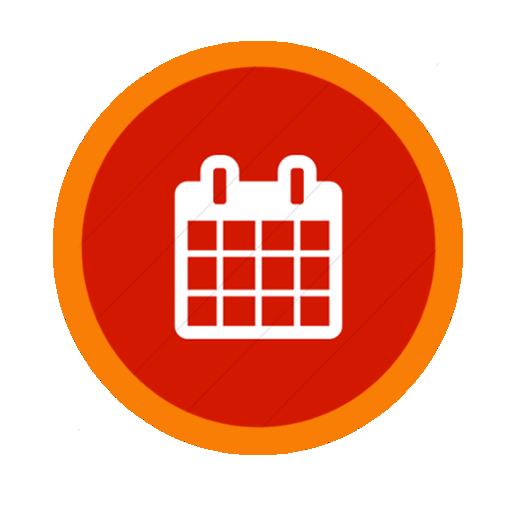
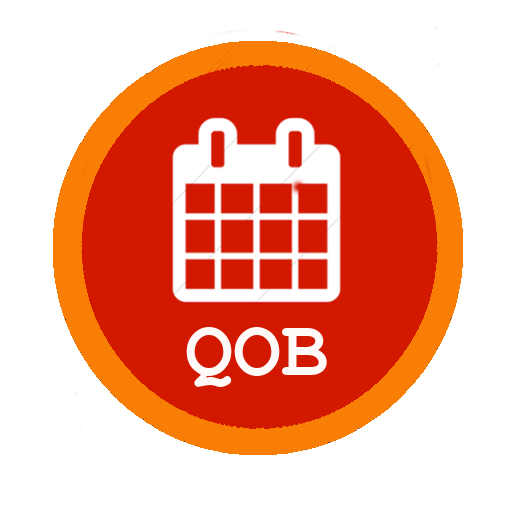
readyyy

diff --git a/components/screens/Menu.js b/components/screens/Menu.js
@@ -37,7 +37,7 @@ const Menu = ({ navigation, dataLogin, getOrder, loading, onShowModal }) => (
                 >
                     <Image source={iconBooking} style={styles.img}/>
                     <View style={styles.subtitle}>
-                        <Text style={styles.titleText}>QOB</Text>
+                        <Text style={styles.titleText}>Quick Online Booking</Text>
                     </View>
                 </TouchableOpacity>
                 <TouchableOpacity 

diff --git a/components/screens/search/IndexSearch.js b/components/screens/search/IndexSearch.js
@@ -160,7 +160,7 @@ class IndexSearch extends React.Component{
 				<MyStatusBar />
 				<TopNavigation
 				    leftControl={this.renderLeftControl()}
-				    title='QOB'
+				    title='QPOSin AJA'
 				    alignment='start'
 				    titleStyle={{fontFamily: 'open-sans-bold', fontSize: 19, fontWeight: '700', color: '#FFF'}}
 				    style={{backgroundColor: 'rgb(240, 132, 0)'}}

diff --git a/components/screens/MenuNotMember.js b/components/screens/MenuNotMember.js
@@ -20,7 +20,7 @@ const MenuNotMember = ({ navigation }) => (
 						style={styles.img}
 					/>
 					<View style={styles.subtitle}>
-						<Text style={styles.titleText}>QOB</Text>
+						<Text style={styles.titleText}>Quick Online Booking</Text>
 					</View>
 				</TouchableOpacity>
 				<TouchableOpacity 
